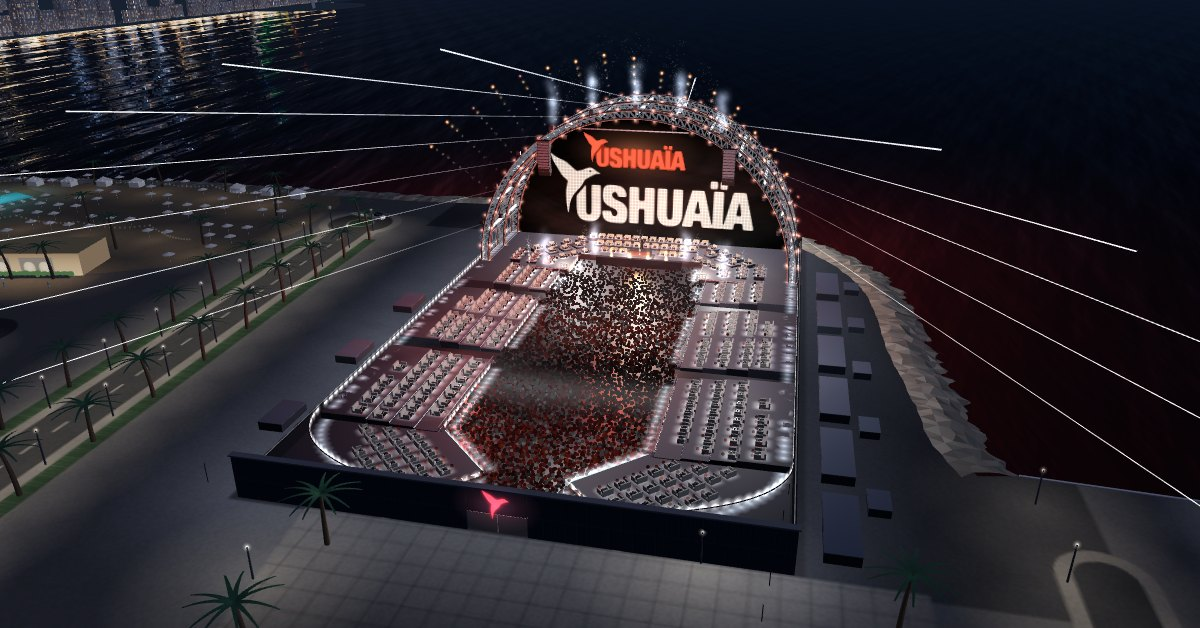
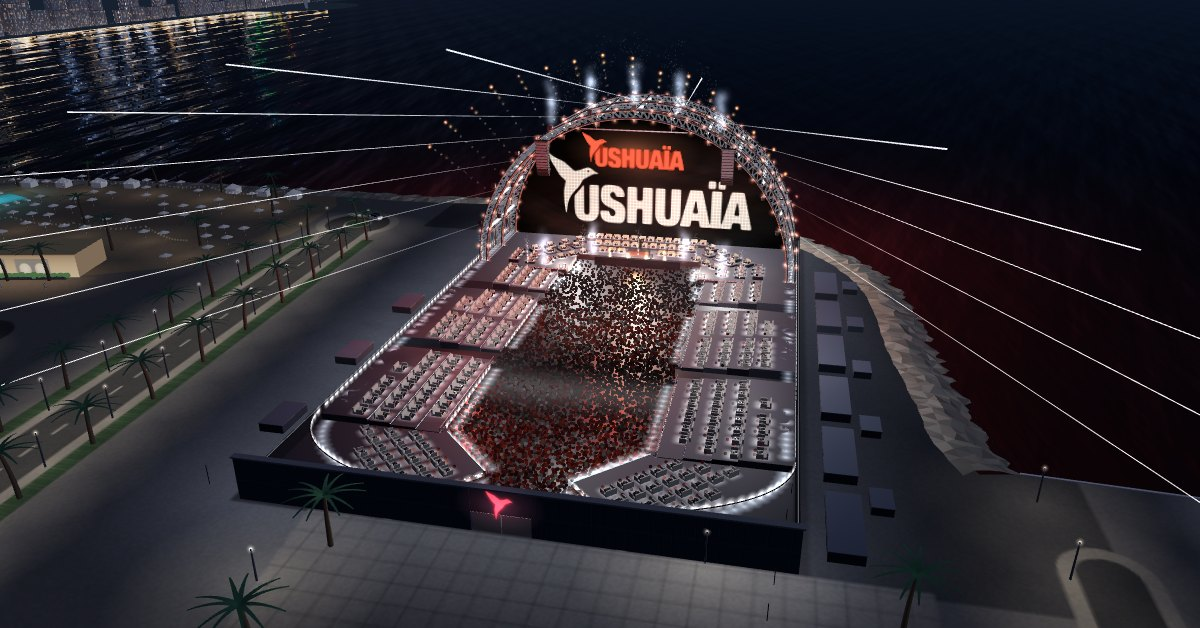
preview-concierge: the venue's photo cut square around the venue
Claude-Session: https://claude.ai/code/session_01TZhaR8BjA5BQ1fxoYv4MrF

diff --git a/preview-concierge/studio/studio.css b/preview-concierge/studio/studio.css
@@ -49,9 +49,9 @@
 .in,.out{overflow-wrap:anywhere;white-space:pre-wrap}
 .grp.pic{width:84%}                                 /* a message with a picture is as wide as a bubble may be */
 .grp .img{aspect-ratio:1200/628;margin-bottom:6px}  /* WhatsApp's own shape for the picture on top of a message */
-/* a photo with words under it: the 3D view in the app's own frame (390 x 506), in a bubble as wide as WhatsApp draws a photo */
+/* a photo with words under it: the 3D view, square, in a bubble as wide as WhatsApp draws a photo */
 .in.pic{width:70%}
-.img.photo{aspect-ratio:390/506;margin-bottom:6px}
+.img.photo{aspect-ratio:1/1;margin-bottom:6px}
 /* WhatsApp's forward button beside a message that is meant to be passed on */
 .fwrap{display:flex;align-items:center;gap:8px;align-self:stretch}
 .fwrap>.in{flex:0 1 auto;min-width:0}
